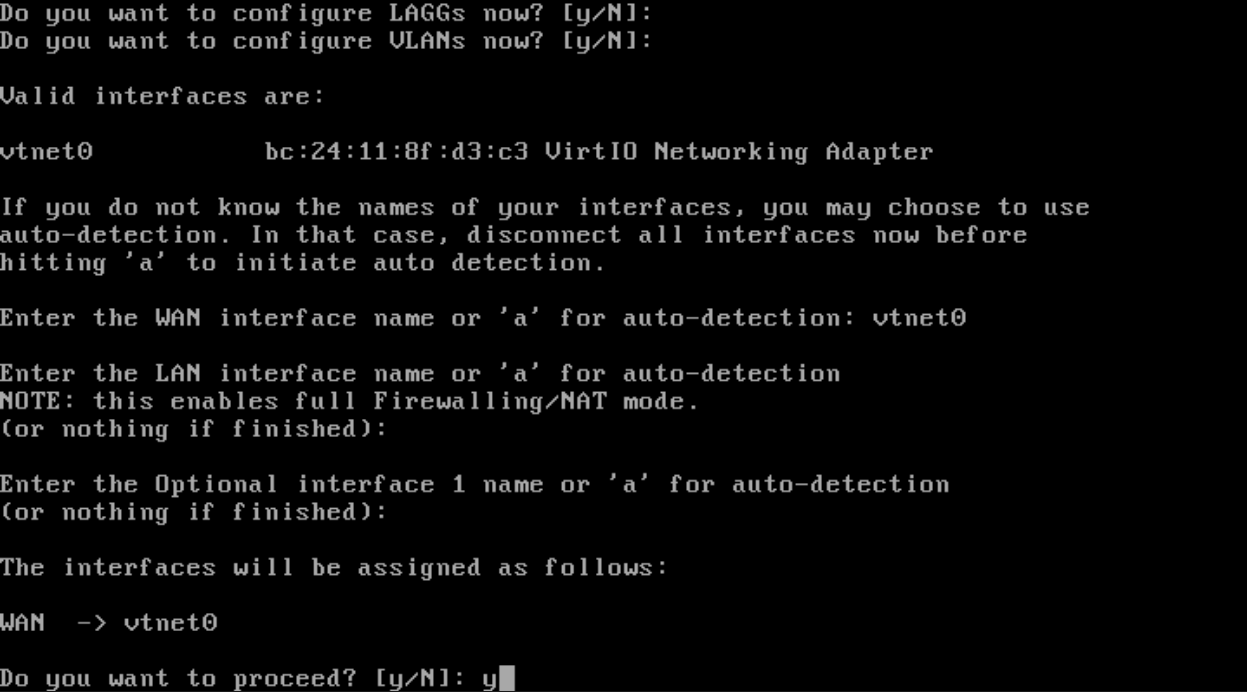
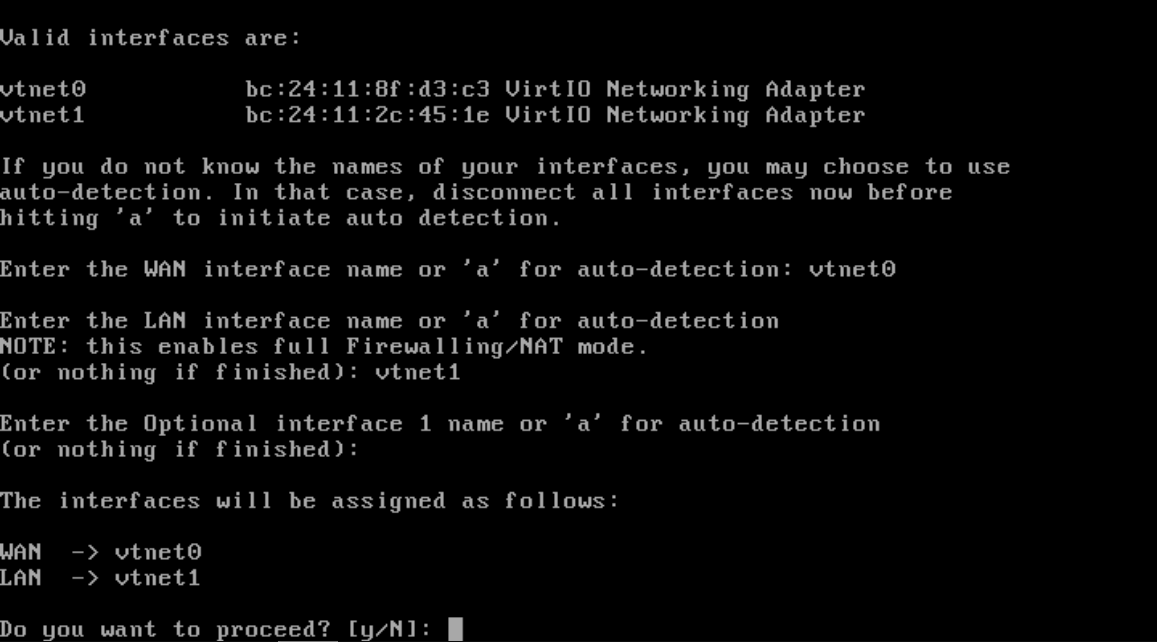
Update OPNsense guide

Changed region(s): [[0.0, 0.1246, 0.8712, 0.9034], [0.0, 0.0, 0.529, 0.0935], [0.2178, 0.9657, 0.4356, 1.0]]

diff --git a/guides/opnsense/README.md b/guides/opnsense/README.md
@@ -6,10 +6,22 @@ This guide covers the installation and configuration of OPNsense, an open-source
 
 - [OPNsense](#opnsense)
   - [Preparation Steps](#preparation-steps)
+    - [ISO Download](#iso-download)
+    - [Proxmox Virtual Machine](#proxmox-virtual-machine)
   - [Installation](#installation)
   - [Post-Installation Tasks](#post-installation-tasks)
+    - [WAN Interface](#wan-interface)
+    - [LAN Interface](#lan-interface)
+    - [Initial Configuration](#initial-configuration)
+    - [Web UI Firewall Rule](#web-ui-firewall-rule)
+    - [Web UI Port](#web-ui-port)
+    - [DNS](#dns)
+    - [DHCP](#dhcp)
+    - [Update OPNsense](#update-opnsense)
 
 ## Preparation Steps
+
+### ISO Download
 
 To install OPNsense, download the OPNsense ISO image from the [official website](https://opnsense.org/download). For this setup, we are using version **25.7**.
 
@@ -30,13 +42,11 @@ After the upload/download is complete, the OPNsense ISO will be available to att
 
 ![OPNsense ISO](image/pve_images.png "OPNsense ISO")
 
-## Installation
+### Proxmox Virtual Machine
 
-- Create the virtual machine for OPNsense. In the Proxmox web UI, click the `Create VM` button in the top-right corner to launch the VM creation wizard. Enable the `Advanced` checkbox in the bottom-right of the dialog. Proceed through each tab and configure the settings as described in the following steps.
+Create the virtual machine for OPNsense. In the Proxmox web UI, click the `Create VM` button in the top-right corner to launch the VM creation wizard. Enable the `Advanced` checkbox in the bottom-right of the dialog. Proceed through each tab and configure the settings as described in the following steps.
 
 ![Create OPNsense VM](image/pve_create_vm.png "Create OPNsense VM")
-
-### VM Configuration Steps
 
 #### General Tab
 
@@ -86,45 +96,258 @@ After the upload/download is complete, the OPNsense ISO will be available to att
 
 ![OPNsense VM Config](image/pve_create_vm_config.png "OPNsense VM Config")
 
-- Select the newly created VM `1001 (opnsense)` and open the `Console` tab. Click `Start` to power on the VM. The system will boot from the OPNsense ISO in live mode initially.
+#### Network Devices
+
+To add a LAN interface to OPNsense. Go back to the proxmox Web UI and navigate and select the OPNsens VM then go to `Hardware`. Click `Add` → `Network Device`. Choose the bridge `vmbr2` and click `Add`
+
+Now you should have two network devices added to the VM: one will serve as the WAN interface and the other as the LAN interface in OPNsense.
+
+- The **WAN interface** connects the OPNsense VM to your external or upstream network (typically your home network or lab uplink), allowing it to act as the gateway for all outbound and inbound traffic.
+- The **LAN interface** connects the OPNsense VM to your internal virtual network, providing routing, firewall, DHCP, and DNS services to your virtual machines and containers.
+
+![OPNsense VM Hardware](image/pve_create_vm_hardware.png "OPNsense VM Hardware")
+
+## Installation
+
+Select the newly created VM `1001 (opnsense)` and open the `Console` tab. Click `Start` to power on the VM. The system will boot from the OPNsense ISO in live mode initially.
 
 ![Start OPNsense VM](image/pve_start_opnsense.png "Start OPNsense VM")
 
-- At the boot prompt, you can simply wait for the system to autoboot—no user input is required at this stage.
+At the boot prompt, you can simply wait for the system to autoboot—no user input is required at this stage.
 
 ![OPNsense Boot Screen](image/01_installation_screen.png "OPNsense Boot Screen")
 
-- Once the system begins initialization, you may see prompts to configure certain options. Wait until you see the message: **"Press any key to start the manual interface assignment"** At this point, press any key to proceed with assigning a network interface for WAN.
+Once the system begins initialization, you may see prompts to configure certain options. Wait until you see the message: **"Press any key to start the manual interface assignment"** At this point, press any key to proceed with assigning a network interface for WAN.
 
 - You will be prompted to configure LAGGs and VLANs. For both prompts, simply press `Enter` to accept the default answer of "No," as these features are not required at this stage of the setup.
 
-- Next, when prompted for the WAN interface name (as shown in the screenshot below), type `vtnet0` and press `Enter`. This assigns the first network interface as the WAN connection for OPNsense.
+Next, answer the following prompts as shown below. After typing each value, press `Enter` to confirm your entry.
 
-- When prompted to enter the LAN or an Optional interface name, leave the field empty and press `Enter`. We will configure the LAN interface later in the setup process.
+- **Enter the WAN interface name:** `vtnet0`
+- **Enter the LAN interface name:** `vtnet1`
+- **Enter the Optional interface name:** _(leave blank and press Enter)_
 
-- Finally, type `y` and press `Enter` to confirm your selections and proceed with the initial network configuration.
+After entering both interface names, type `y` and press `Enter` to confirm your selections and proceed with the initial network configuration. OPNsense will now apply these settings and continue with the setup process.
 
 ![OPNsense WAN Interface](image/02_installation_screen.png "OPNsense WAN Interface")
 
-- Once the WAN interface is configured and you see the login prompt, you are ready to begin the actual installation of OPNsense onto the virtual machine.
+Once the interfaces are configured and you see the login prompt, you are ready to begin the actual installation of OPNsense onto the virtual machine.
 
-- Log in using the username `installer` and the password `opnsense`. This will launch the OPNsense installer, allowing you to proceed with the guided installation process.
+Log in using the username `installer` and the password `opnsense`. This will launch the OPNsense installer, allowing you to proceed with the guided installation process.
 
 ![OPNsense Installer Login](image/03_installation_screen.png "OPNsense Installer Login")
 
-- Select your preferred keyboard layout and continue. When prompted, choose the `Install (UFS)` option to begin the installation. You may see a warning about the system having only 2048 MB of RAM—this can be safely ignored for our setup and usage purposes. Click `Proceed anyway` to continue with the installation process.
+Select your preferred keyboard layout and continue. When prompted, choose the `Install (UFS)` option to begin the installation. You may see a warning about the system having only 2048 MB of RAM—this can be safely ignored for our setup and usage purposes. Click `Proceed anyway` to continue with the installation process.
 
 ![OPNsense Install UFS](image/04_installation_screen.png "OPNsense Install UFS")
 ![OPNsense RAM Warning](image/05_installation_screen.png "OPNsense RAM Warning")
 
-- Select the 32 GB disk as the installation target for OPNsense. When prompted about creating a recommended swap partition, choose `No`—this is optional and not required. Confirm your disk selection by choosing `YES` when asked to proceed. The installer will now copy the necessary files and complete the installation process. Wait for the installation to finish before continuing to the next steps.
+Select the 32 GB disk as the installation target for OPNsense. When prompted about creating a recommended swap partition, choose `No`—this is optional and not required. Confirm your disk selection by choosing `YES` when asked to proceed. The installer will now copy the necessary files and complete the installation process. Wait for the installation to finish before continuing to the next steps.
 
 ![OPNsense Install Progress](image/06_installation_screen.png "OPNsense Install Progress")
 
-- Next, you will be prompted to set the `Root password` for the OPNsense system. Enter a strong password of your choice twice to confirm. This password will be used for administrative access to the OPNsense web interface and console.
+Next, you will be prompted to set the `Root password` for the root user. Enter a strong password of your choice twice to confirm. This password will be used for administrative access to the OPNsense web interface and console.
 
-- After setting the password, select `Complete Install` to finalize the installation. Then choose `Reboot now` to restart the system and complete the initial installation process.
+After setting the password, select `Complete Install` to finalize the installation. Then choose `Reboot now` to restart the system and complete the installation process.
 
 ![OPNsense Root password](image/07_installation_screen.png "OPNsense Root password")
 
 ## Post-Installation Tasks
+
+After the VM has rebooted, you can log in using the username `root` and the password you set during installation. Upon successful login, you will see the OPNsense console menu, as shown in the screenshot below.
+
+From here, you can proceed with the initial configuration of OPNsense. This includes assigning IP addresses, setting up the WAN and LAN interfaces and adding a firewall rule to allow Access to the Web UI via WAN. Follow the next steps in this guide to complete the setup and ensure your OPNsense firewall is ready to manage our virtual network.
+
+![OPNsense Terminal](image/opnsense_console_menu.png "OPNsense Terminal")
+
+### WAN Interface
+
+Now we need to configure the WAN interface by assigning it a static IP address and setting the gateway. From the OPNsense Console menu, enter `2` to select `Set interface IP address` → `2` to select `WAN` . For each prompt, respond as follows (`n` stands for No):
+
+- **Configure IPv4 address WAN interface via DHCP?**: `n`
+- **Enter the new WAN IPv4 address**: `172.16.1.1`
+- **Enter the new WAN IPv4 subnet bit count**: `31`
+- **For a WAN, enter the new WAN IPv4 upstream gateway address**: `172.16.1.0`
+- **Do you want to use the gateway as the IPv4 name server?**: `n`
+- **Enter the IPv4 name server**: `9.9.9.9`  
+  _(Note: This is a temporary setting; you can change the DNS server later through the OPNsense Web UI.)_
+- **Configure IPv6 address WAN interface via DHCP6**: `n`
+- **Enter the new WAN IPv6 address**: _(leave blank and press Enter, as IPv6 is not needed for this setup)_
+
+For any additional prompts, simply press `Enter` to accept the default answer, which should be `n`.
+
+### LAN Interface
+
+Now we need to configure the LAN interface. From the OPNsense Console menu, enter `2` to select `Set interface IP address` → `1` to select `LAN` . For each prompt, respond as follows (`n` stands for No):
+
+- **Configure IPv4 address LAN interface via DHCP?**: `n`
+- **Enter the new LAN IPv4 address**: `10.0.0.1`
+- **Enter the new LAN IPv4 subnet bit count**: `24`
+- **For a LAN**: _(leave blank and press Enter)_
+- **Configure IPv6 address LAN interface via DHCP6**: `n`
+- **Enter the new LAN IPv6 address**: _(leave blank and press Enter, as IPv6 is not needed for this setup)_
+- **Do you want to enable DHCP server on LAN?**: `n`
+  _(Note: We will configure a DHCP server through the Web UI later)_
+
+For any additional prompts, simply press `Enter` to accept the default answer, which should be `n`.
+
+### Initial Configuration
+
+Now that the WAN and LAN interfaces are configured, you need to adjust some settings to ensure access to the web interface from your Proxmox host and to prevent issues with HTTP referer and DNS rebind checks.
+
+1. From the OPNsense Console menu, select option `8` to open the `Shell`.
+2. Edit the configuration file by running:
+
+   ```shell
+   vi /conf/config.xml
+   ```
+
+3. Scroll down to the `<webgui>` section and add the following lines:
+
+   ```xml
+   <nohttpreferercheck>1</nohttpreferercheck>
+   <nodnsrebindcheck>1</nodnsrebindcheck>
+   ```
+
+   The `<webgui>` section should look like this:
+
+   ```xml
+   <webgui>
+         <protocol>https</protocol>
+         <nohttpreferercheck>1</nohttpreferercheck>
+         <nodnsrebindcheck>1</nodnsrebindcheck>
+         <!-- This can be different, which is fine. -->
+         <ssl-certref>68e565efcf5d8</ssl-certref>
+   </webgui>
+   ```
+
+4. Save the file and exit the editor.
+5. Back in the console menu, select option `6` to `Reboot system` and apply the changes.
+
+OPNsense blocks access to the Web UI via the WAN address by default to enhance security. However, for initial setup, we need to temporarily disable the firewall filter and add a rule to allow access through the WAN interface.
+
+To do this:
+
+1. From the OPNsense Console menu, select option `8` to open the `Shell`.
+2. Temporarily disable the firewall filter by running `pfctl -d`
+
+   (_Note: This command disables packet filtering, allowing you to access the Web UI via the WAN interface_)
+
+Now, you should be able to access the OPNsense Web UI using the IP address or the hostname assigned to your Proxmox host. For example, navigate to `https://192.168.22.120` or `https://mukhtabar.lan` in your web browser.
+
+When you first connect, your browser may display a warning about the SSL certificate being self-signed. This is normal for a fresh OPNsense installation—simply accept the warning to proceed.
+
+You will then be presented with the OPNsense login page. Log in using the username `root` and the password you set during installation. Once logged in, you will be greeted by the OPNsense welcome wizard. Click `Next` to proceed to the general settings page.
+
+![OPNsense Login Page](image/opnsense_login_page.png "OPNsense Login Page")
+
+#### General
+
+- **Domain Name:** Set the domain name to anything of your choosing. For internal use, avoid using real top-level domains (TLDs); instead, use something like `internal`, `lab` or `home`.
+- **Timezone:** Adjust the timezone to match your location.
+- **Override DNS:** Uncheck the `Override DNS` option to prevent OPNsense from replacing your custom DNS settings with those provided by the WAN interface.
+- **Language:** You may change the language if desired, but this guide uses English terms and menus for consistency.
+
+Once you have made these adjustments, click `Next` to continue with the wizard and complete the initial configuration.
+
+![OPNsense Wizard General Page](image/opnsense_wizard_general.png "OPNsense Wizard General Page")
+
+#### WAN
+
+On the Network [WAN] page of the OPNsense setup wizard, ensure the following settings are configured:
+
+- **Type:** Set to `Static`.
+- **IP Address:** Enter `172.16.1.1/31`.
+- **Gateway:** Enter `172.16.1.0`.
+- **Block RFC1918 Private Networks:** Make sure this option is **unchecked**. This allows private network traffic to reach the WAN interface, which is necessary in a virtualized lab environment where your WAN is not truly public.
+
+![OPNsense Wizard WAN Page](image/opnsense_wizard_wan.png "OPNsense Wizard WAN Page")
+
+#### LAN
+
+On the Network [LAN] page of the OPNsense setup wizard, ensure the following settings are configured:
+
+- **Disable LAN** `Unchecked`
+- **IP Address** `10.0.0.1/24`
+- **Configure DHCP Server**: `Unchecked`
+
+![OPNsense Wizard LAN Page](image/opnsense_wizard_lan.png "OPNsense Wizard LAN Page")
+
+Once you have verified the configuration, continue by clicking `Next` through the remaining pages of the setup wizard.
+
+When you reach the end of the wizard, click `Apply` to save your configuration and complete the initial setup.
+
+> **Note:** After applying the configuration, OPNsense will automatically re-enable the firewall, which may block your current access to the Web UI via the WAN interface. This is a security feature to prevent unauthorized access.
+
+To regain access for final adjustments, return to the OPNsense console and temporarily disable the firewall filter again by running `pfctl -d`. This will allow you to continue configuring OPNsense through the Web UI. Remember, this step is only necessary during initial setup.
+
+#### Web UI Firewall Rule
+
+To ensure you can access the Web UI via the WAN address before configuring a LAN interface, you need to add a firewall rule that explicitly allows this access:
+
+1. In the OPNsense Web UI, navigate to `Firewall` → `Rules` → `WAN`.
+2. Click the plus (+) button to add a new rule.
+3. Set the following values:
+   - **Action:** `Pass`
+   - **Interface:** `WAN`
+   - **Direction:** `In`
+   - **TCP/IP Version:** `IPv4`
+   - **Protocol:** `TCP`
+   - **Destination:** `This Firewall`
+   - **Destination port range:** Select `other` and enter `8443` in both fields (the custom port we will configure for the Web UI).
+   - **Description:** `Allow Web UI Access via WAN`
+4. Click `Save` to add the rule, then click `Apply changes` at the top to activate it.
+5. From the Shell, run `pfctl -d`.
+
+![OPNsense Web UI WAN Rule](image/opnsense_webui_wan_rule.png "OPNsense Web UI WAN Rule")
+
+This rule ensures that you can reliably access the OPNsense Web UI from your Proxmox host or any management workstation on your network, even before the LAN interface is configured.
+
+In this setup, the WAN interface is the private network (e.g., home network) that the Proxmox host is connected to, so allowing Web UI access via WAN is acceptable. However, if the WAN interface is assigned a true public IP address, you should remove or restrict this rule after configuring the LAN interface to prevent exposing the OPNsense Web UI to the internet.
+
+#### Web UI Port
+
+Next we need to change the default web interface port and adjust redirect settings:
+
+1. Navigate to `System` → `Settings` → `Administration`.
+2. Set the **TCP Port** to `8443` (or another port of your choice).
+3. Uncheck the option labeled **Disable web GUI redirect rule** next to HTTP Redirect.
+4. Scroll down and click `Save`.
+
+After saving, your browser will prompt you to reconnect using the new port. Click on the new link (e.g., `https://<your-proxmox-ip>:8443`) to return to the Web UI.
+
+![OPNsense Administration WebUI](image/opnsense_administration_webui.png "OPNsense Administration WebUI")
+![OPNsense Administration Reloading](image/opnsense_administration_reloading.png "OPNsense Administration Reloading")
+
+#### DNS
+
+We want to use the built-in Unbound DNS service in OPNsense to centrally manage DNS. This allows you to control DNS resolution for all devices behind the firewall and optionally forward queries to public DNS servers of your choice.
+
+To configure Unbound DNS:
+
+1. Navigate to `Services` → `Unbound DNS` → `Query Forwarding`.
+2. Click the `+` button to add a new DNS server.
+3. Enter the IP address of any public DNS server you want to use for forwarding (e.g., `9.9.9.9` for Quad9, `1.1.1.1` for Cloudflare, or `8.8.8.8` for Google DNS).
+4. Leave the `Domain` field blank to apply this forwarder to all domains.
+5. Click `Save` to apply your changes.
+
+![OPNsense Unbound Service](image/unbound_dns_server.png "OPNsense Unbound Service")
+(_Note: You can add multiple DNS servers to Unbound without any issues_)
+
+To use Unbound as the central DNS server for the network, you need to update the system's general DNS settings to ensure all DNS queries are handled locally by OPNsense. This setup allows OPNsense to resolve internal hostnames, apply DNS overrides, and forward external queries to your preferred public DNS servers.
+
+Follow these steps:
+
+1. Navigate to `System` → `Settings` → `General`.
+2. Set the first DNS Server to `127.0.0.1` (the local loopback address). This tells OPNsense to use its own Unbound DNS resolver for all DNS queries.
+3. Check the option `Prefer to use IPv4 even if IPv6 is available`. This ensures that DNS queries will use IPv4 by default, which can help avoid issues in environments where IPv6 is not fully configured or supported.
+4. Remove any other DNS servers listed, unless you have a specific reason to keep them.
+5. Scroll down and click `Save` to apply your changes.
+
+#### DHCP
+
+To enable a DHCP server on the LAN interface, navigate to `Services` → `Kea DHCP` → `Kea DHCPv4` in the OPNsense Web UI. Check the option `Enabled` to activate the DHCP server. In the `Interfaces` field, select `LAN` to specify which interface the DHCP server should listen on, click `Apply` to save and activate the DHCP server.
+
+### Update OPNsense
+
+After completing the initial setup and configuration, it's important to ensure the system is up to date. In the left side panel, navigate to `System` → `Firmware` → `Status`. Click on `Check for updates` to see if any updates are available. If updates are found, click `Update` and wait for the process to finish. Keeping your firewall updated is essential for security and stability.
